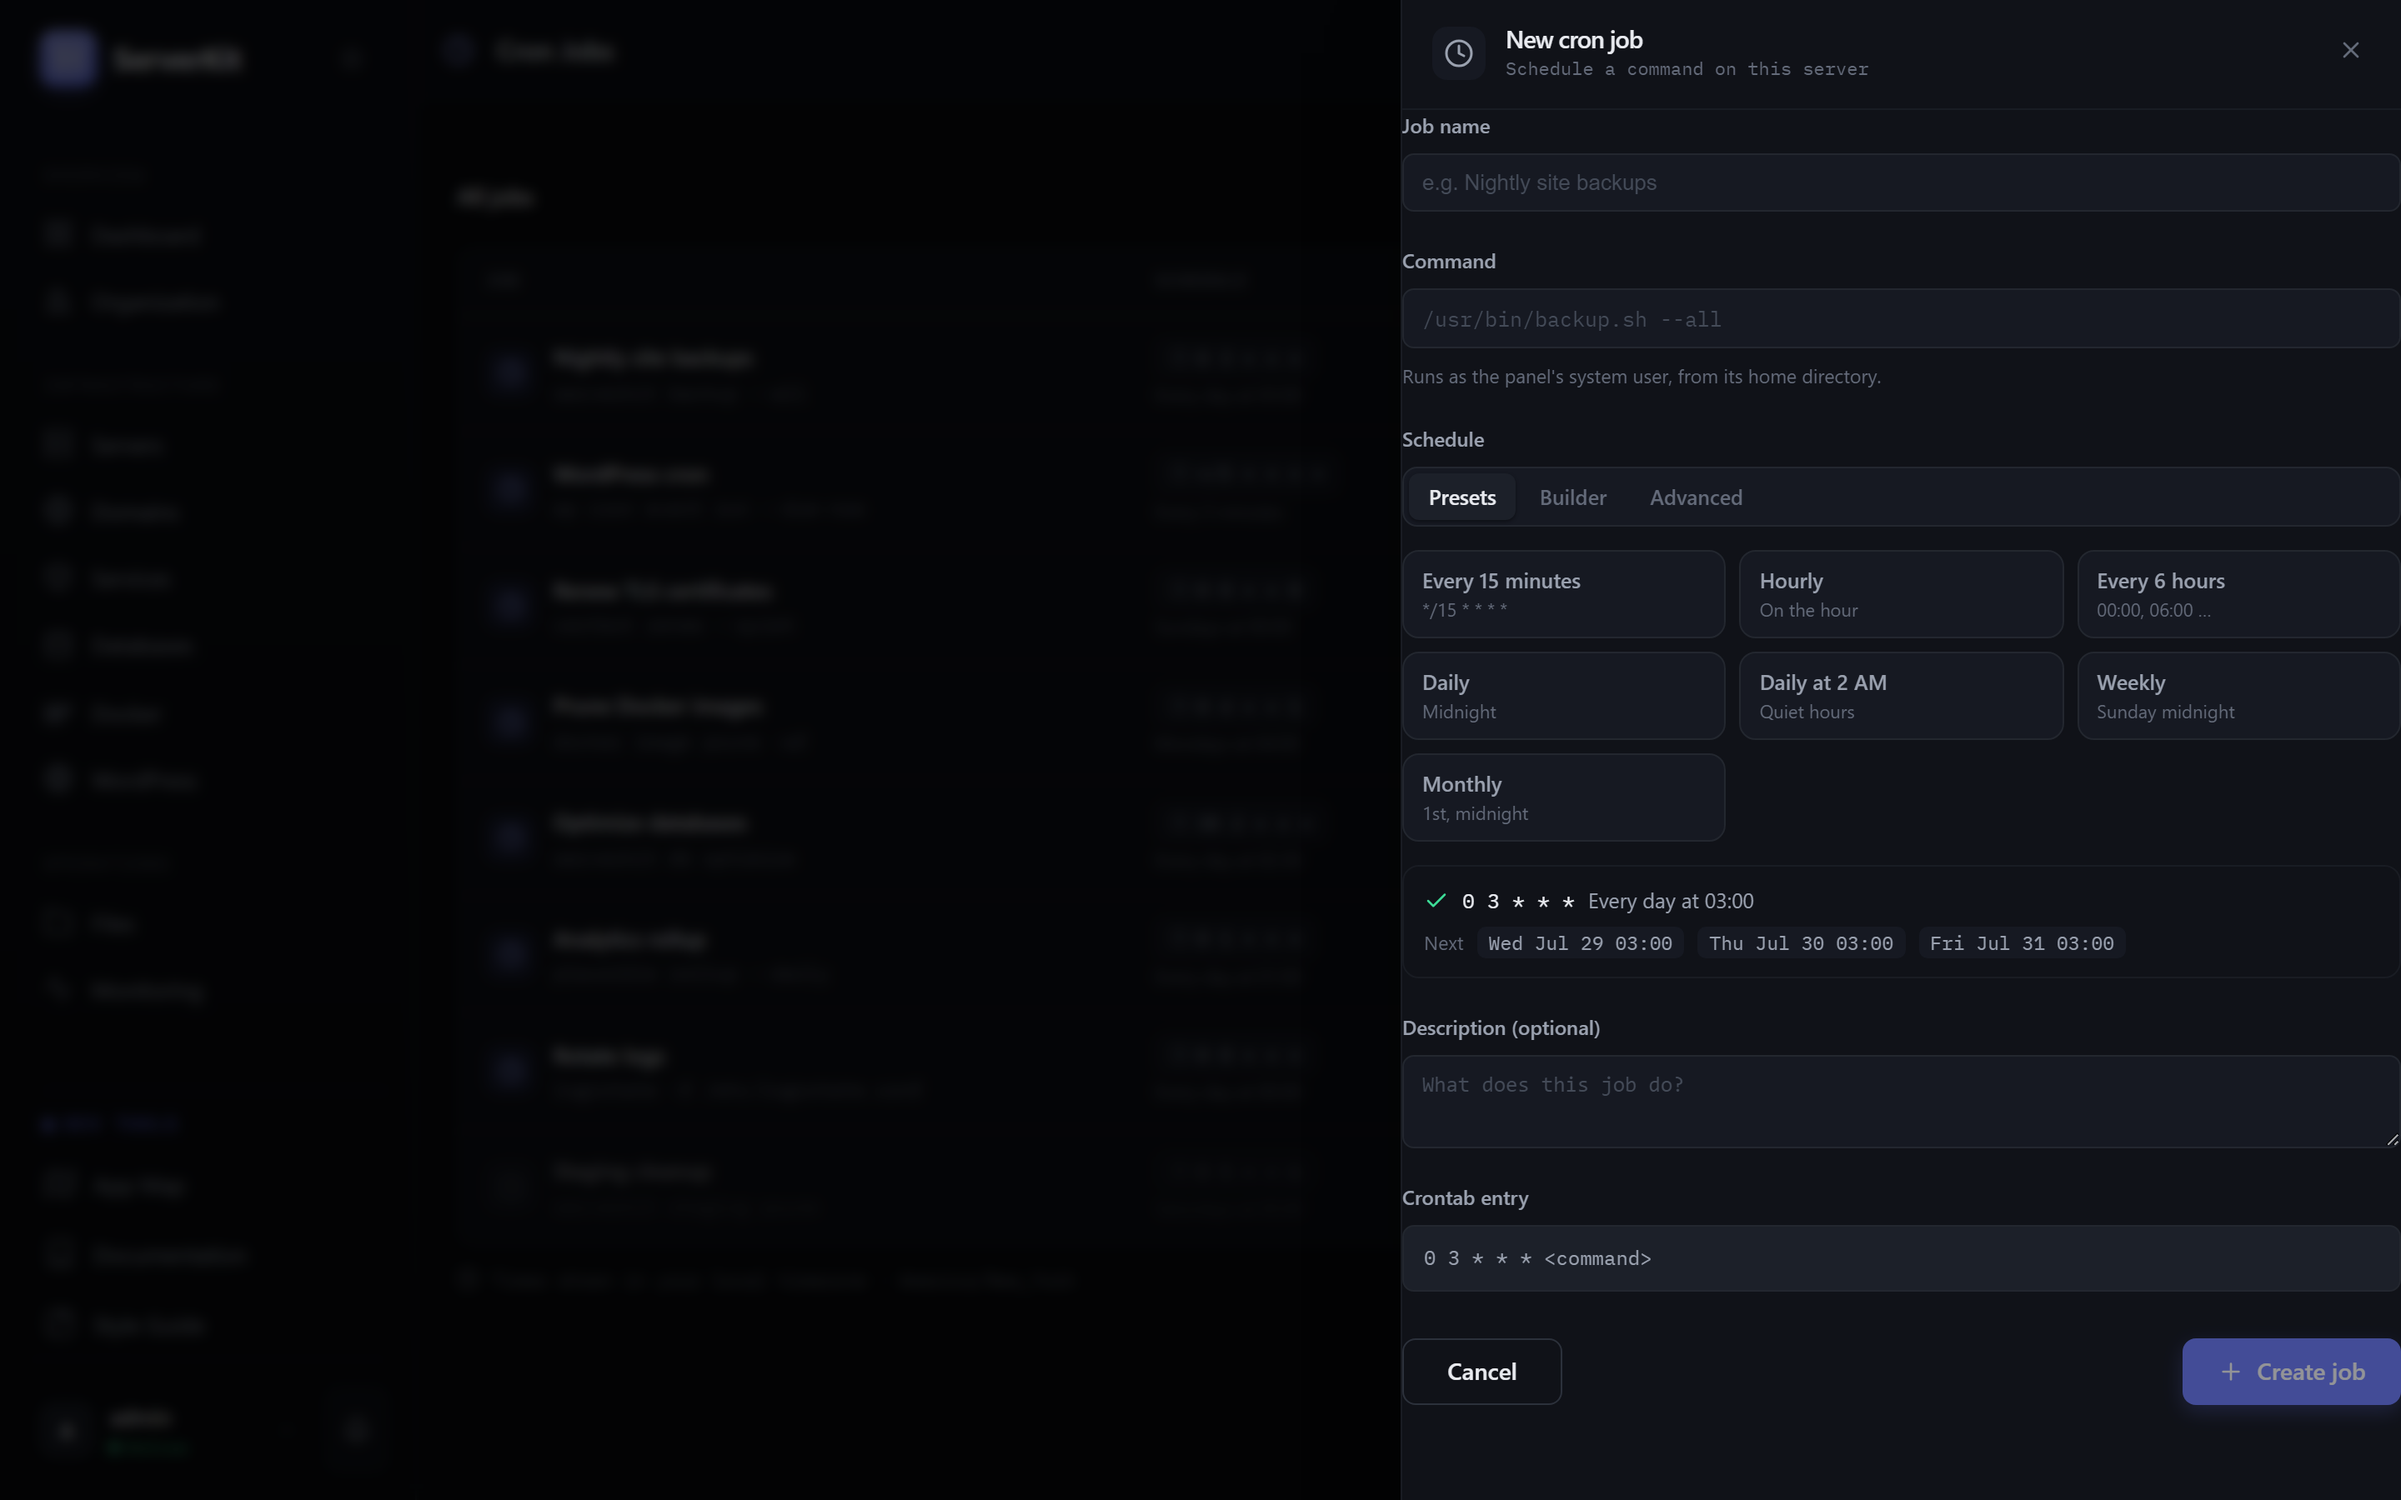
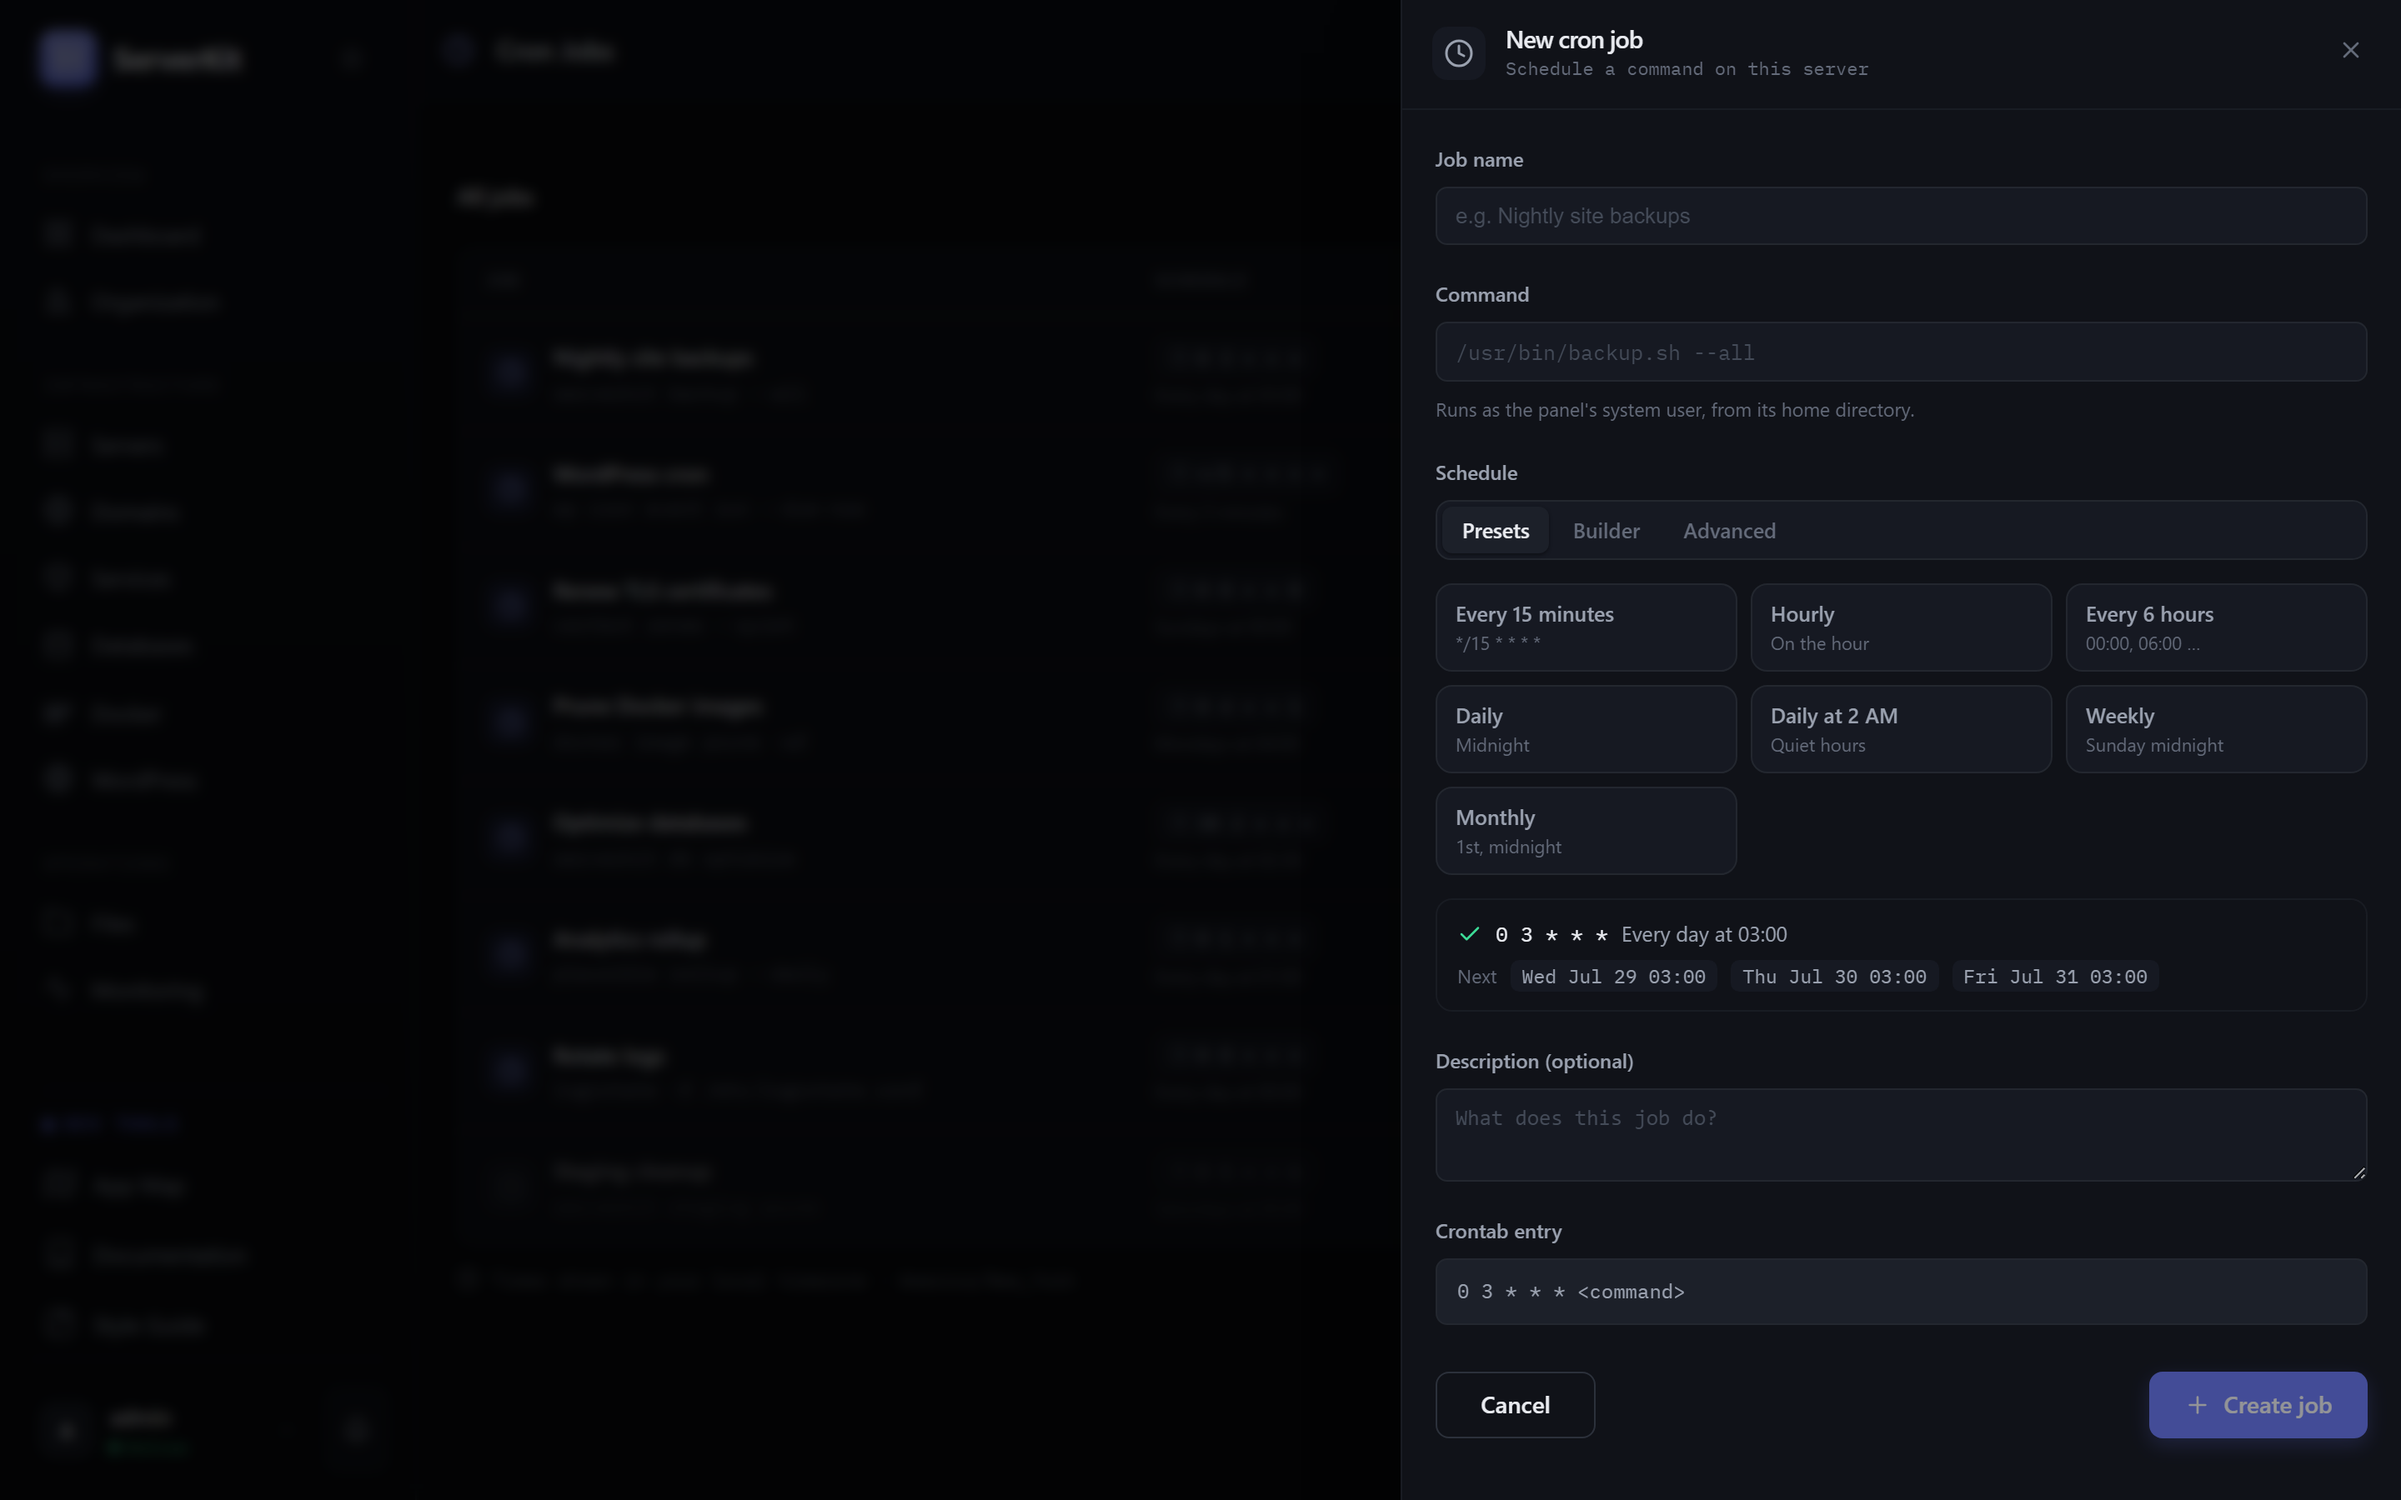
fix(cron): pad the create drawer's body
`.sk-drawer__body` is the scroll region and deliberately carries no padding —
some drawers run edge-to-edge — so each body pads its own root. `.cron-form`
did not, leaving every label and input flush against the panel edges. Same
inset as `.cron-drawer` so the two cron drawers line up, plus a note on the DS
Drawer so the next body does not repeat it.

diff --git a/frontend/src/components/ds/Drawer.jsx b/frontend/src/components/ds/Drawer.jsx
@@ -10,6 +10,11 @@ import { cn } from '@/lib/utils';
 //           subtitle="server filesystem" icon={<FileIcon/>} width={760}>
 //       …body…
 //   </Drawer>
+//
+// NOTE: `.sk-drawer__body` is the scroll region and carries NO padding — some
+// drawers (log tails, tables, editors) run their content edge-to-edge. Ordinary
+// form/detail bodies must pad themselves, or every field sits flush against the
+// panel edge. Pad the body's own root class, not `.sk-drawer__body`.
 export function Drawer({
     open,
     onOpenChange,

diff --git a/frontend/src/styles/pages/_cron.scss b/frontend/src/styles/pages/_cron.scss
@@ -591,6 +591,10 @@
     display: flex;
     flex-direction: column;
     gap: $space-5;
+    // `.sk-drawer__body` is the scroll region and carries no padding of its own
+    // (some drawers are edge-to-edge), so every drawer body pads itself. Same
+    // inset as .cron-drawer so the two cron drawers line up.
+    padding: $space-5 $space-5 $space-8;
 
     &__field {
         display: flex;
